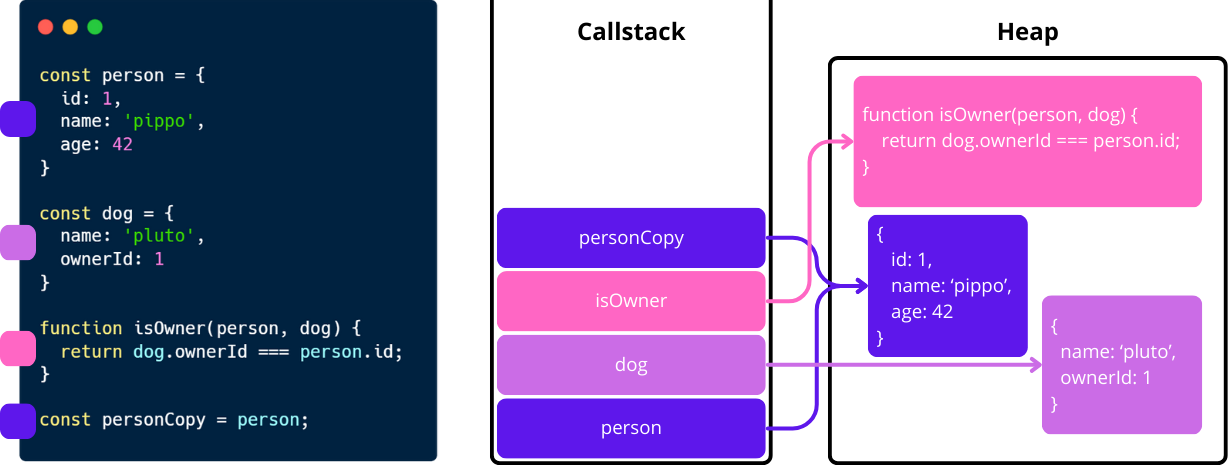
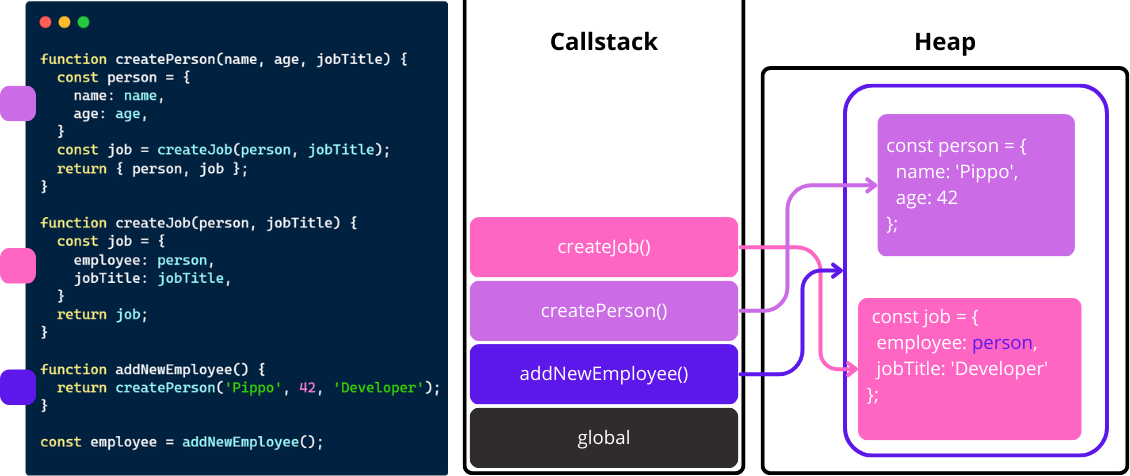
Added Event Loop and Grabage Collection
* added some images

diff --git a/chapters/javascript/eventloop.tex b/chapters/javascript/eventloop.tex
@@ -1,1 +1,52 @@
-\section{Event Loop}
+\section{Event Loop e Callback Queue}
+Fino ad ora abbiamo visto come JavaScript esegua le operazioni in modo sincrono, ovvero una dopo l'altra. 
+Questo comportamento è dovuto al fatto che il JavaScript è un linguaggio \textbf{sincrono e single-threaded}, ovvero
+esegue un solo task alla volta. Quando un Execution Context viene inserito nello Stack, viene eseguito immediatamente,
+e quando termina, viene rimosso dallo Stack.
+Tuttavia, ci sono delle operazione che hanno la necessità di essere eseguite in modo asincorno, come ad esempio le operazioni di fetch, setTimeout, setInterval, che possono richiedere molto tempo per essere completate, ma anche l'esecuzione di eventi come il click di un bottone, che non devono essere eseguite immediatamente.
+In questi casi, JavaScript non può permettersi di bloccare l'interfaccia utente, quindi deve trovare un modo per gestire queste operazioni in modo asincrono.
+
+\vspace{5mm}
+\begin{figure}[H]
+    \centering
+    \includegraphics[width=\textwidth]{javascript/eventloop.png}
+    \caption{Event Loop e Callback Queue}
+    \label{fig:eventloop}
+\end{figure}
+
+\color{red}
+\subsection{Event Loop}
+Per gestire le operazioni asincrone, JavaScript utilizza un meccanismo chiamato \textbf{Event Loop}. L'Event Loop è un ciclo che si occupa di monitorare lo Stack e la Callback Queue, e di spostare le funzioni dalla Callback Queue allo Stack quando lo Stack è vuoto. In questo modo, JavaScript può eseguire le operazioni asincrone senza bloccare l'interfaccia utente.
+
+\subsection{Callback Queue}
+La Callback Queue è una coda in cui vengono inserite le funzioni che devono essere eseguite in modo asincrono. Quando una funzione asincrona viene completata, viene inserita nella Callback Queue, in attesa di essere eseguita. Quando lo Stack è vuoto, l'Event Loop prende la funzione in testa alla Callback Queue e la sposta nello Stack, dove viene eseguita.
+
+\subsection{Esempio}
+Vediamo un esempio per capire meglio come funziona l'Event Loop e la Callback Queue.
+\begin{lstlisting}
+console.log('1');
+setTimeout(() => {
+  console.log('2');
+}, 0);
+console.log('3');
+\end{lstlisting}
+
+In questo esempio, vengono eseguite le seguenti operazioni:
+\begin{itemize}
+    \item Viene inserita la funzione \texttt{console.log('1')} nello Stack e viene eseguita. Viene stampato il numero 1.
+    \item Viene inserita la funzione \texttt{setTimeout(() => \{ console.log('2'); \}, 0)} nello Stack e viene eseguita. La funzione \texttt{setTimeout} è una funzione asincrona che esegue la funzione passata come argomento dopo un certo numero di millisecondi. In questo caso, la funzione \texttt{console.log('2')} viene eseguita dopo 0 millisecondi. La funzione \texttt{setTimeout} viene completata e viene inserita nella Callback Queue.
+    \item Viene inserita la funzione \texttt{console.log('3')} nello Stack e viene eseguita. Viene stampato il numero 3.
+    \item Lo Stack è vuoto, quindi l'Event Loop prende la funzione in testa alla Callback Queue e la sposta nello Stack. Viene eseguita la funzione \texttt{console.log('2')} e viene stampato il numero 2.
+    \item La Callback Queue è vuota, quindi l'Event Loop termina.
+    \item Viene stampato il numero 2.
+    \item Viene stampato il numero 3.
+    \item Viene stampato il numero 1.
+    \item Il programma termina.
+\end{itemize}
+
+In questo esempio, la funzione \texttt{console.log('2')} viene eseguita dopo la funzione \texttt{console.log('3')}, anche se la funzione \texttt{setTimeout} viene completata prima. Questo è dovuto al fatto che la funzione \texttt{setTimeout} viene inserita nella Callback Queue e viene eseguita solo quando lo Stack è vuoto.
+
+\subsection{Conclusioni}
+In questo capitolo abbiamo visto come JavaScript gestisca le operazioni asincrone utilizzando l'Event Loop e la Callback Queue. Questo meccanismo permette a JavaScript di eseguire le operazioni asincrone in modo efficiente, senza bloccare l'interfaccia utente. È importante capire come funziona l'Event Loop e la Callback Queue per scrivere codice JavaScript efficiente e performante.
+
+\color{black}

diff --git a/chapters/javascript/jsengine.tex b/chapters/javascript/jsengine.tex
@@ -106,4 +106,30 @@ Il Memory Heap è lo spazio di memoria in cui vengono allocate le variabili e gl
 Il Call Stack è una struttura dati a pila che tiene traccia delle chiamate di funzione in un programma. Quando una funzione viene chiamata, il motore JavaScript aggiunge un frame di attivazione alla cima dello stack, e quando la funzione ritorna, il frame di attivazione viene rimosso dallo stack. Questo processo è chiamato \textit{push} e \textit{pop} dallo stack. Il Call Stack è una struttura dati a pila, il che significa che le chiamate di funzione vengono gestite in ordine LIFO (Last In, First Out), cioè l'ultima funzione chiamata è la prima a ritornare.
 
 \subsection{Garbage Collection}
-\href{https://developer.mozilla.org/en-US/docs/Web/JavaScript/Memory_management}{\color{blue}{Mark and sweep algorithm}}
+Ora che abbiamo visto come funzionano il Memory Heap e il Call Stack, e come JavaScript alloca la memoria e gestisce le chiamate di funzione, è necessario presentare un altro concetto fondamentale: la garbage collection.
+La garbage collection è il processo di deallocazione della memoria non più utilizzata da un programma. Quando un oggetto non è più necessario, il motore JavaScript dealloca lo spazio di memoria occupato da quell'oggetto, e la rende disponibile per altri oggetti.
+
+Il problema principale è che decidere se una certa memoria è ancora necessaria è un problema indecidibile, il che significa che non può esistere un algoritmo in grado di raccogliere tutta la memoria che non è più necessaria nel momento esatto in cui diventa obsoleta. Per cui è necessario utilizzare degli algoritmi di approssimazione che cercano di raccogliere la memoria non più utilizzata il più spesso possibile, senza rallentare troppo l'esecuzione del programma.
+
+\subsubsection{Mark and Sweep Algorithm}
+
+\vspace{5mm}
+\begin{figure}[H]
+    \centering
+    \begin{subfigure}{0.45\textwidth}
+        \includegraphics[width=0.95\linewidth]{javascript/mark.png} 
+        \caption{Mark Phase}
+        \label{fig:mark}
+    \end{subfigure}
+    \begin{subfigure}{0.45\textwidth}
+        \includegraphics[width=0.95\linewidth]{javascript/sweep.png}
+        \caption{Sweep Phase}
+        \label{fig:sweep}
+        \end{subfigure}
+    \caption{Mark and Sweep Algorithm per la garbage collection}
+    \label{fig:markandsweep}
+\end{figure}
+
+Il principale algoritmo di garbage collection utilizzato dai JavaScript Engine è il Mark and Sweep Algorithm. 
+Questo algoritmo verifica se gli oggetti sono raggiungibili dal \emph{root object (window object)}, che è l'oggetto globale del programma, dividendo questo processo in due fasi: nella prima fase, il motore JavaScript marca gli oggetti che sono ancora in uso (\emph{mark}), e nella seconda fase, dealloca gli oggetti che non sono stati marcati \emph{sweep}. 
+Questo processo permette di liberare la memoria non più utilizzata, e di evitare i memory leaks, che sono una delle principali cause di crash di un programma.

diff --git a/chapters/javascript/runtitmeenv.tex b/chapters/javascript/runtitmeenv.tex
@@ -1,7 +1,7 @@
 \chapter{JavaScript Runtime Environment}
 
 \begin{figure}[h]
-\includegraphics[width=\textwidth]{javascript/runtime_env.png}
+\includegraphics[width=\textwidth]{javascript/runtimeenvironment.png}
 \caption{Schema del JS Runtime Environment}
 \label{fig:runtime_env}
 \end{figure}

diff --git a/chapters/javascript/main.tex b/chapters/javascript/main.tex
@@ -2,5 +2,4 @@
 \input{chapters/javascript/jsengine}
 \input{chapters/javascript/executioncontext}
 \input{chapters/javascript/eventloop}
-\input{chapters/javascript/callbackqueue}
 \input{chapters/javascript/webapi}

diff --git a/settings/packages.tex b/settings/packages.tex
@@ -32,3 +32,4 @@
 \usepackage[bottom]{footmisc} % Posiziona le footnotes alla fine della pagina
 \usepackage{ragged2e}
 \usepackage{listings}
+\usepackage{subcaption}
